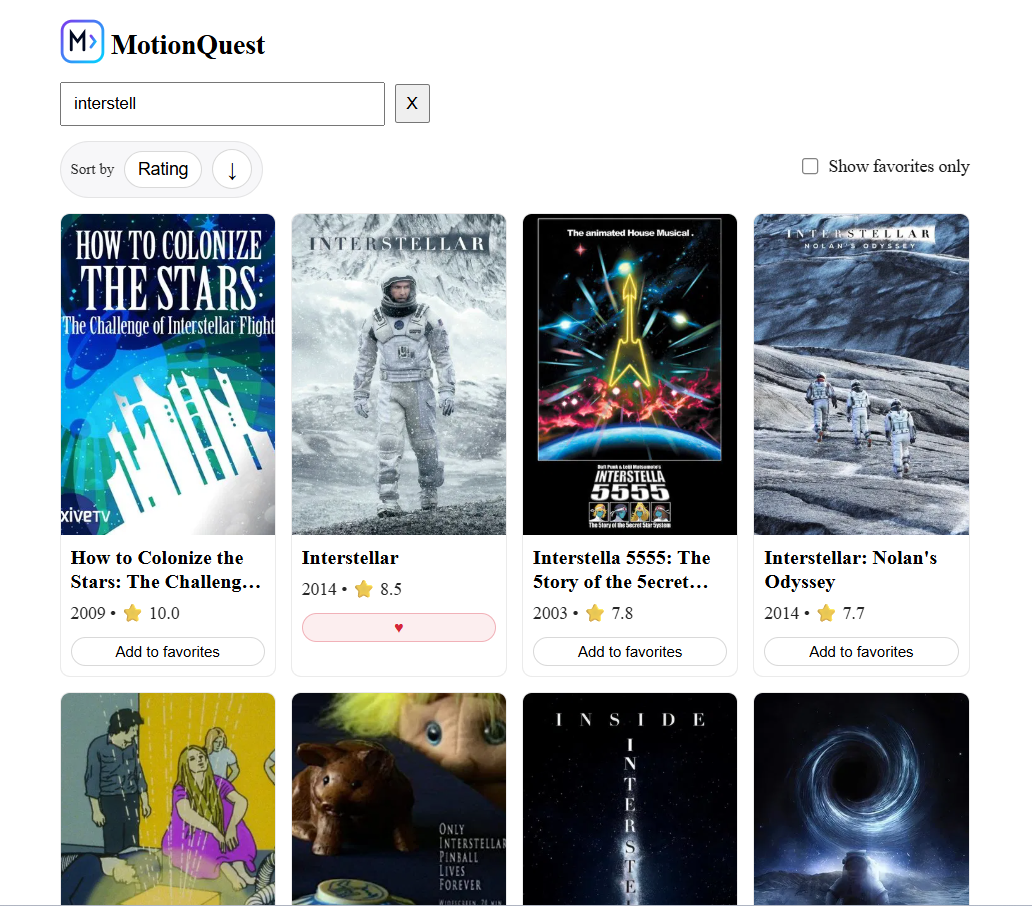
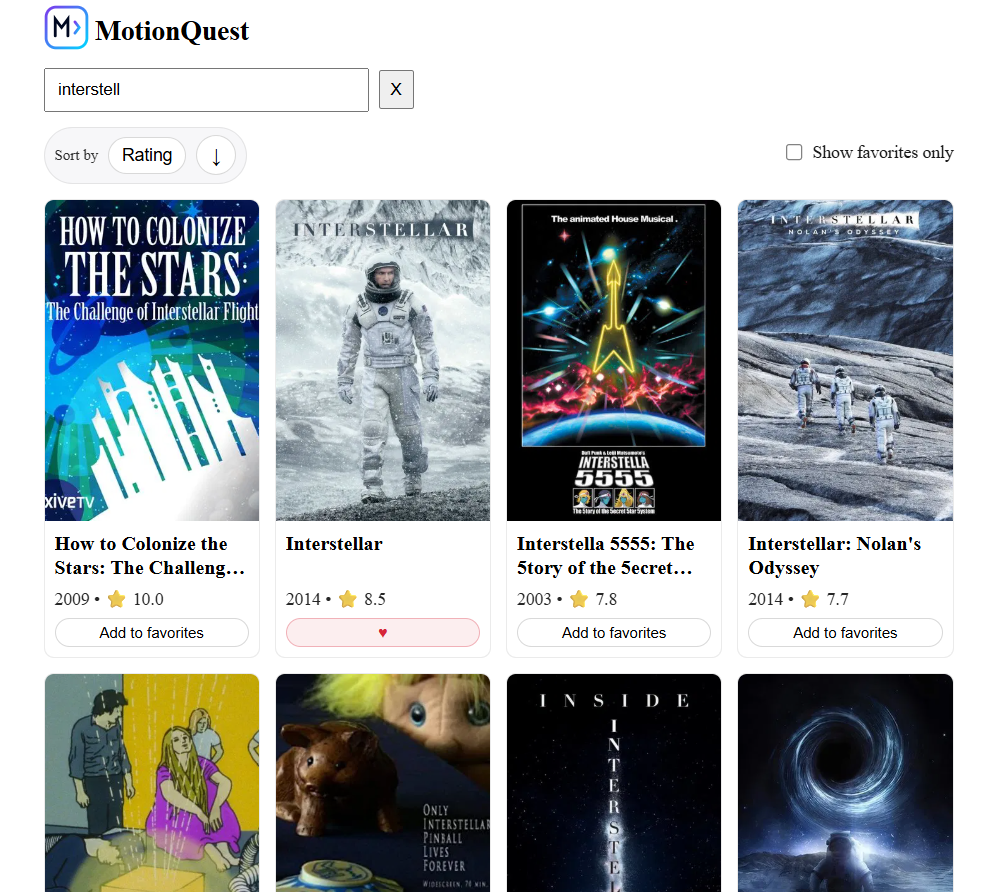
Fix alignment issue with favorites chip
- Favorites chip was not aligned because some title names have
  two lines and others have one.
- Also, minor UI refactor of sorting label:  Was "Sort", now is
  Sort by""

diff --git a/src/App.jsx b/src/App.jsx
@@ -160,13 +160,12 @@ export default function App() {
                         role="group"
                         aria-label="Sort results"
                     >
-                        <span className="sort-label">Sort</span>
+                        <span className="sort-label">Sort by</span>
                         <select
                             className="sort-select"
                             value={sortBy}
                             onChange={e => setSortBy(e.target.value)}
                             aria-label="Sort by"
-                            title="Sort by"
                         >
                             <option value={SORT_BY.RATING}>Rating</option>
                             <option value={SORT_BY.YEAR}>Year</option>

diff --git a/src/App.css b/src/App.css
@@ -176,9 +176,11 @@
 
 /* Card body */
 .card-body {
-    display: grid;
+    display: flex;
+    flex-direction: column;
     gap: 6px;
     padding: 8px;
+    flex: 1; /* let it fill remaining height under the poster */
 }
 
 /* Details */
@@ -193,8 +195,7 @@
 
 /* Favorite chip */
 .fav-chip {
-    align-self: start;
-    margin-top: 4px;
+    margin-top: auto;
     font-size: 12px;
     padding: 4px 8px;
     border-radius: 999px;
@@ -229,6 +230,8 @@
     display: -webkit-box;
     -webkit-box-orient: vertical;
     overflow: hidden;
+
+    min-height: calc(2 * 1.2em); /* 1.2 = .movie-title line-height */
 }
 
 /* Error Messages */
